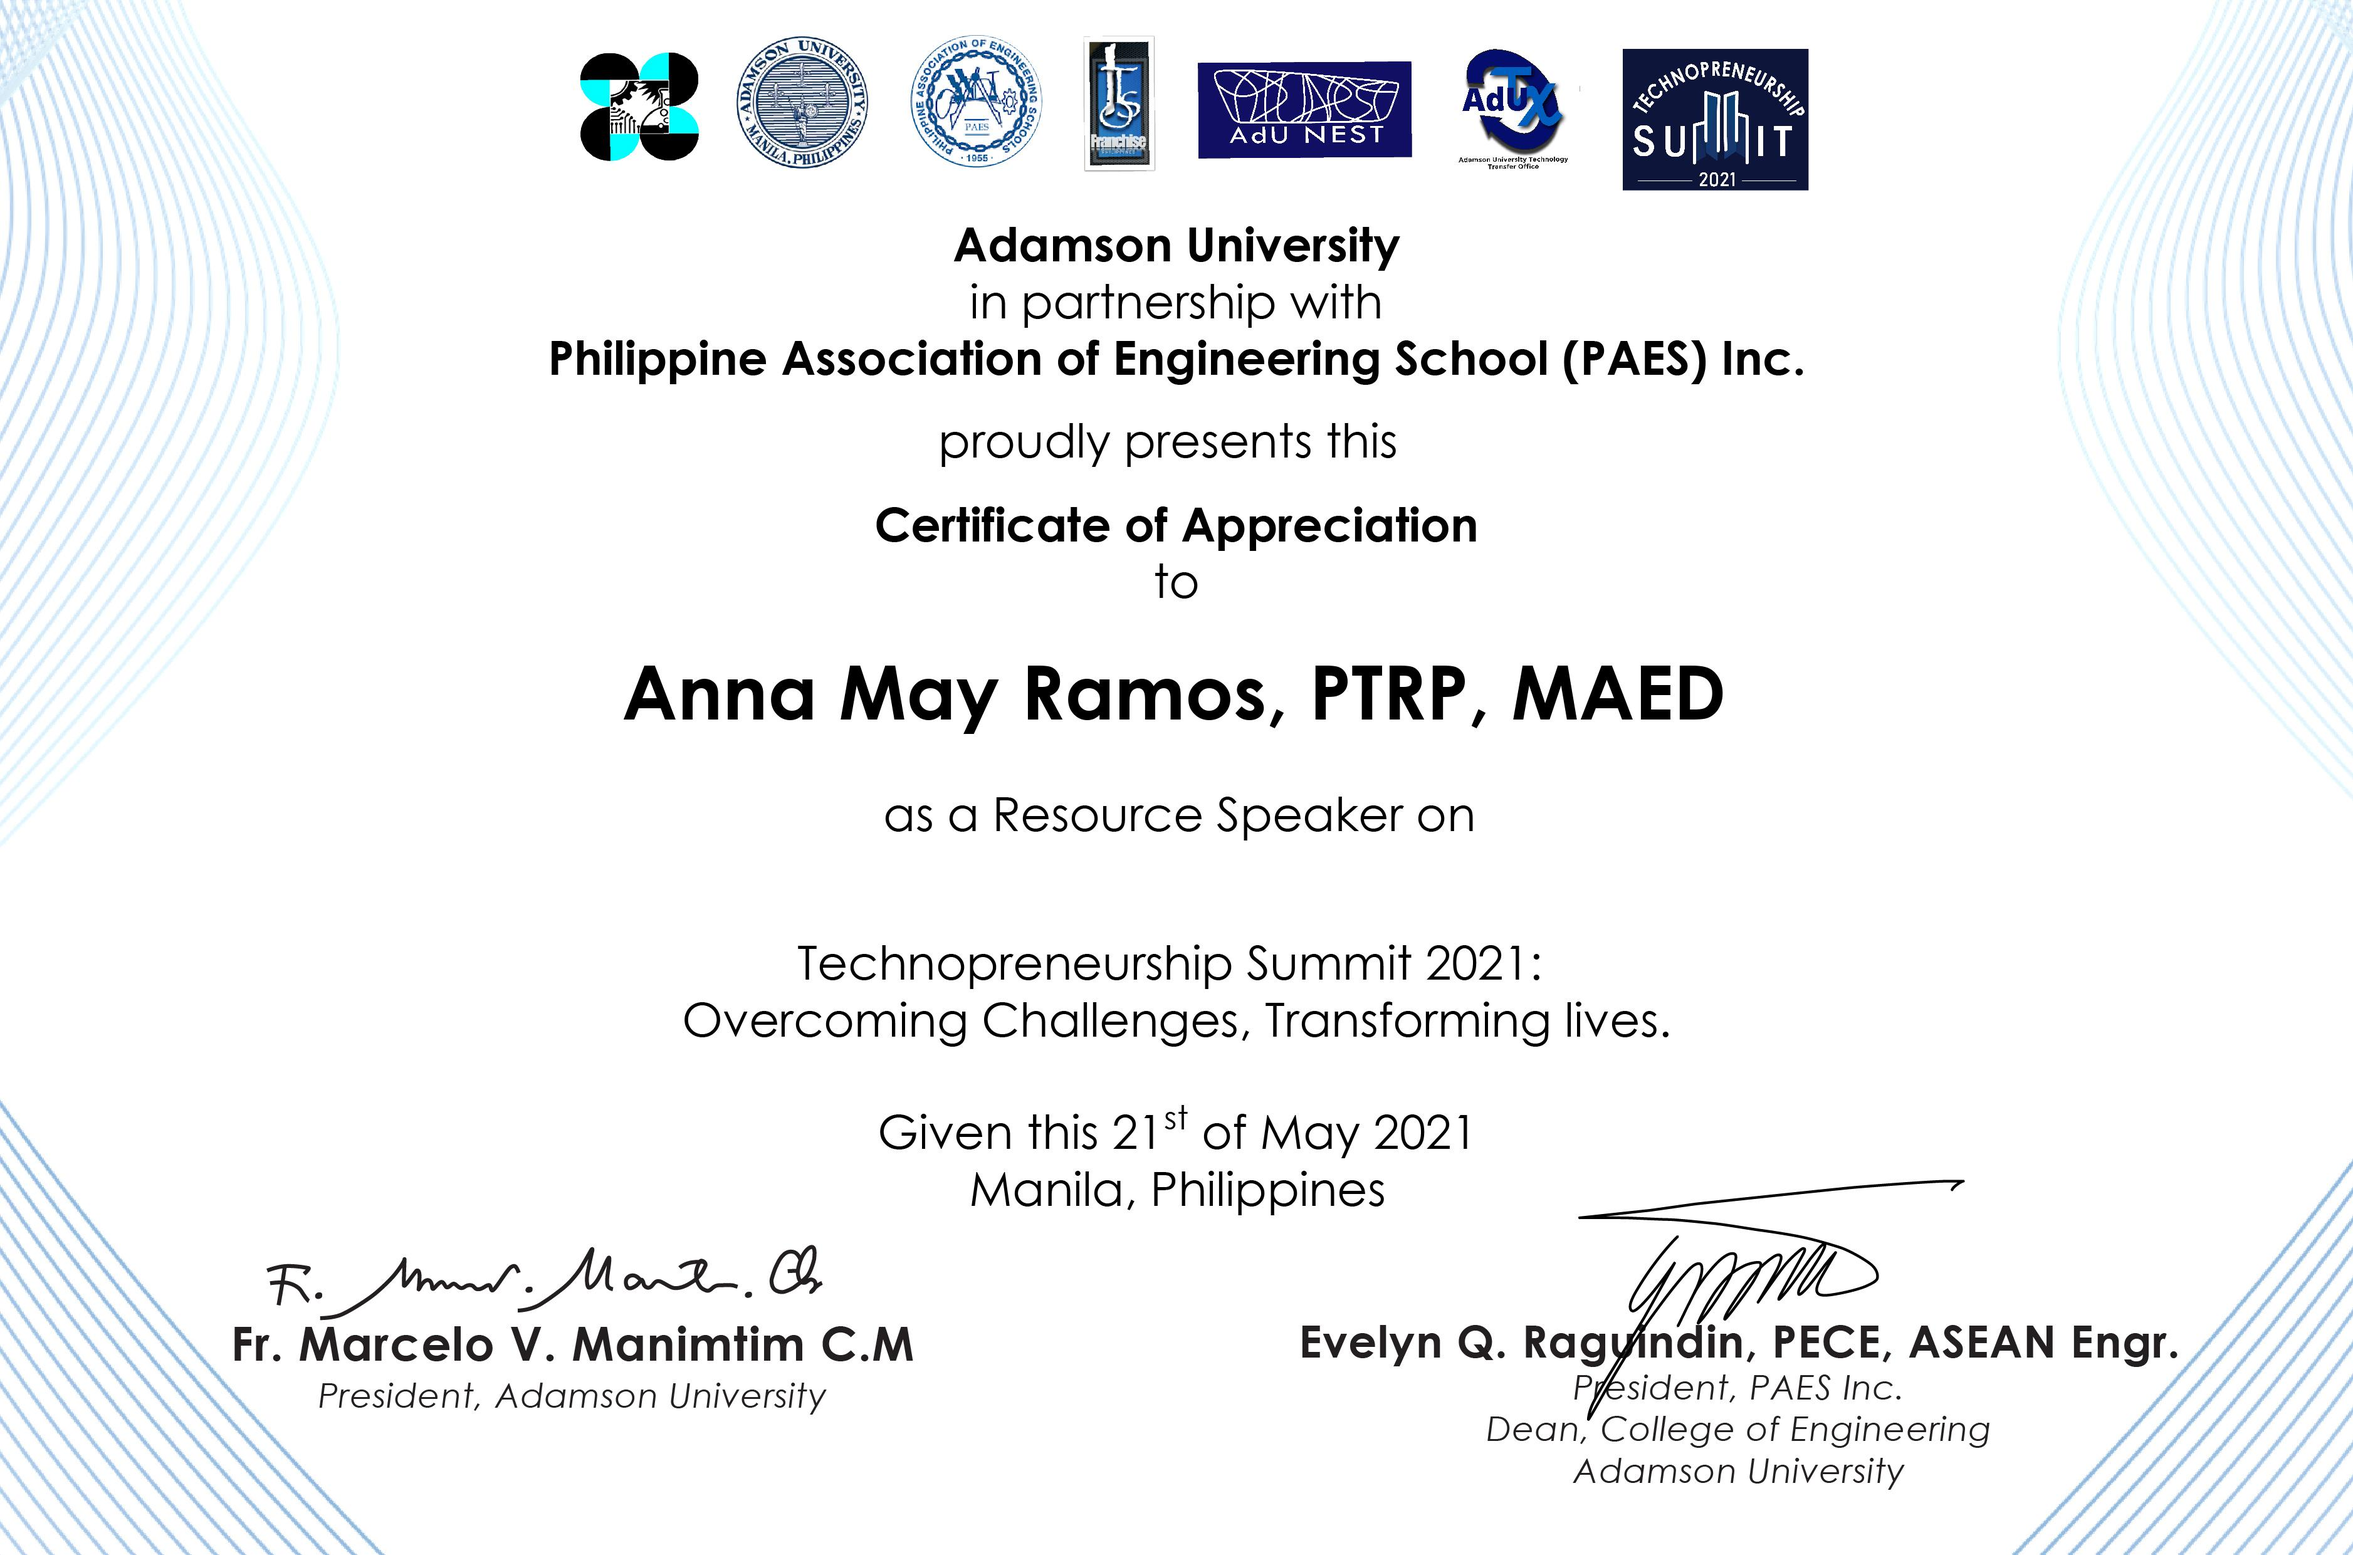
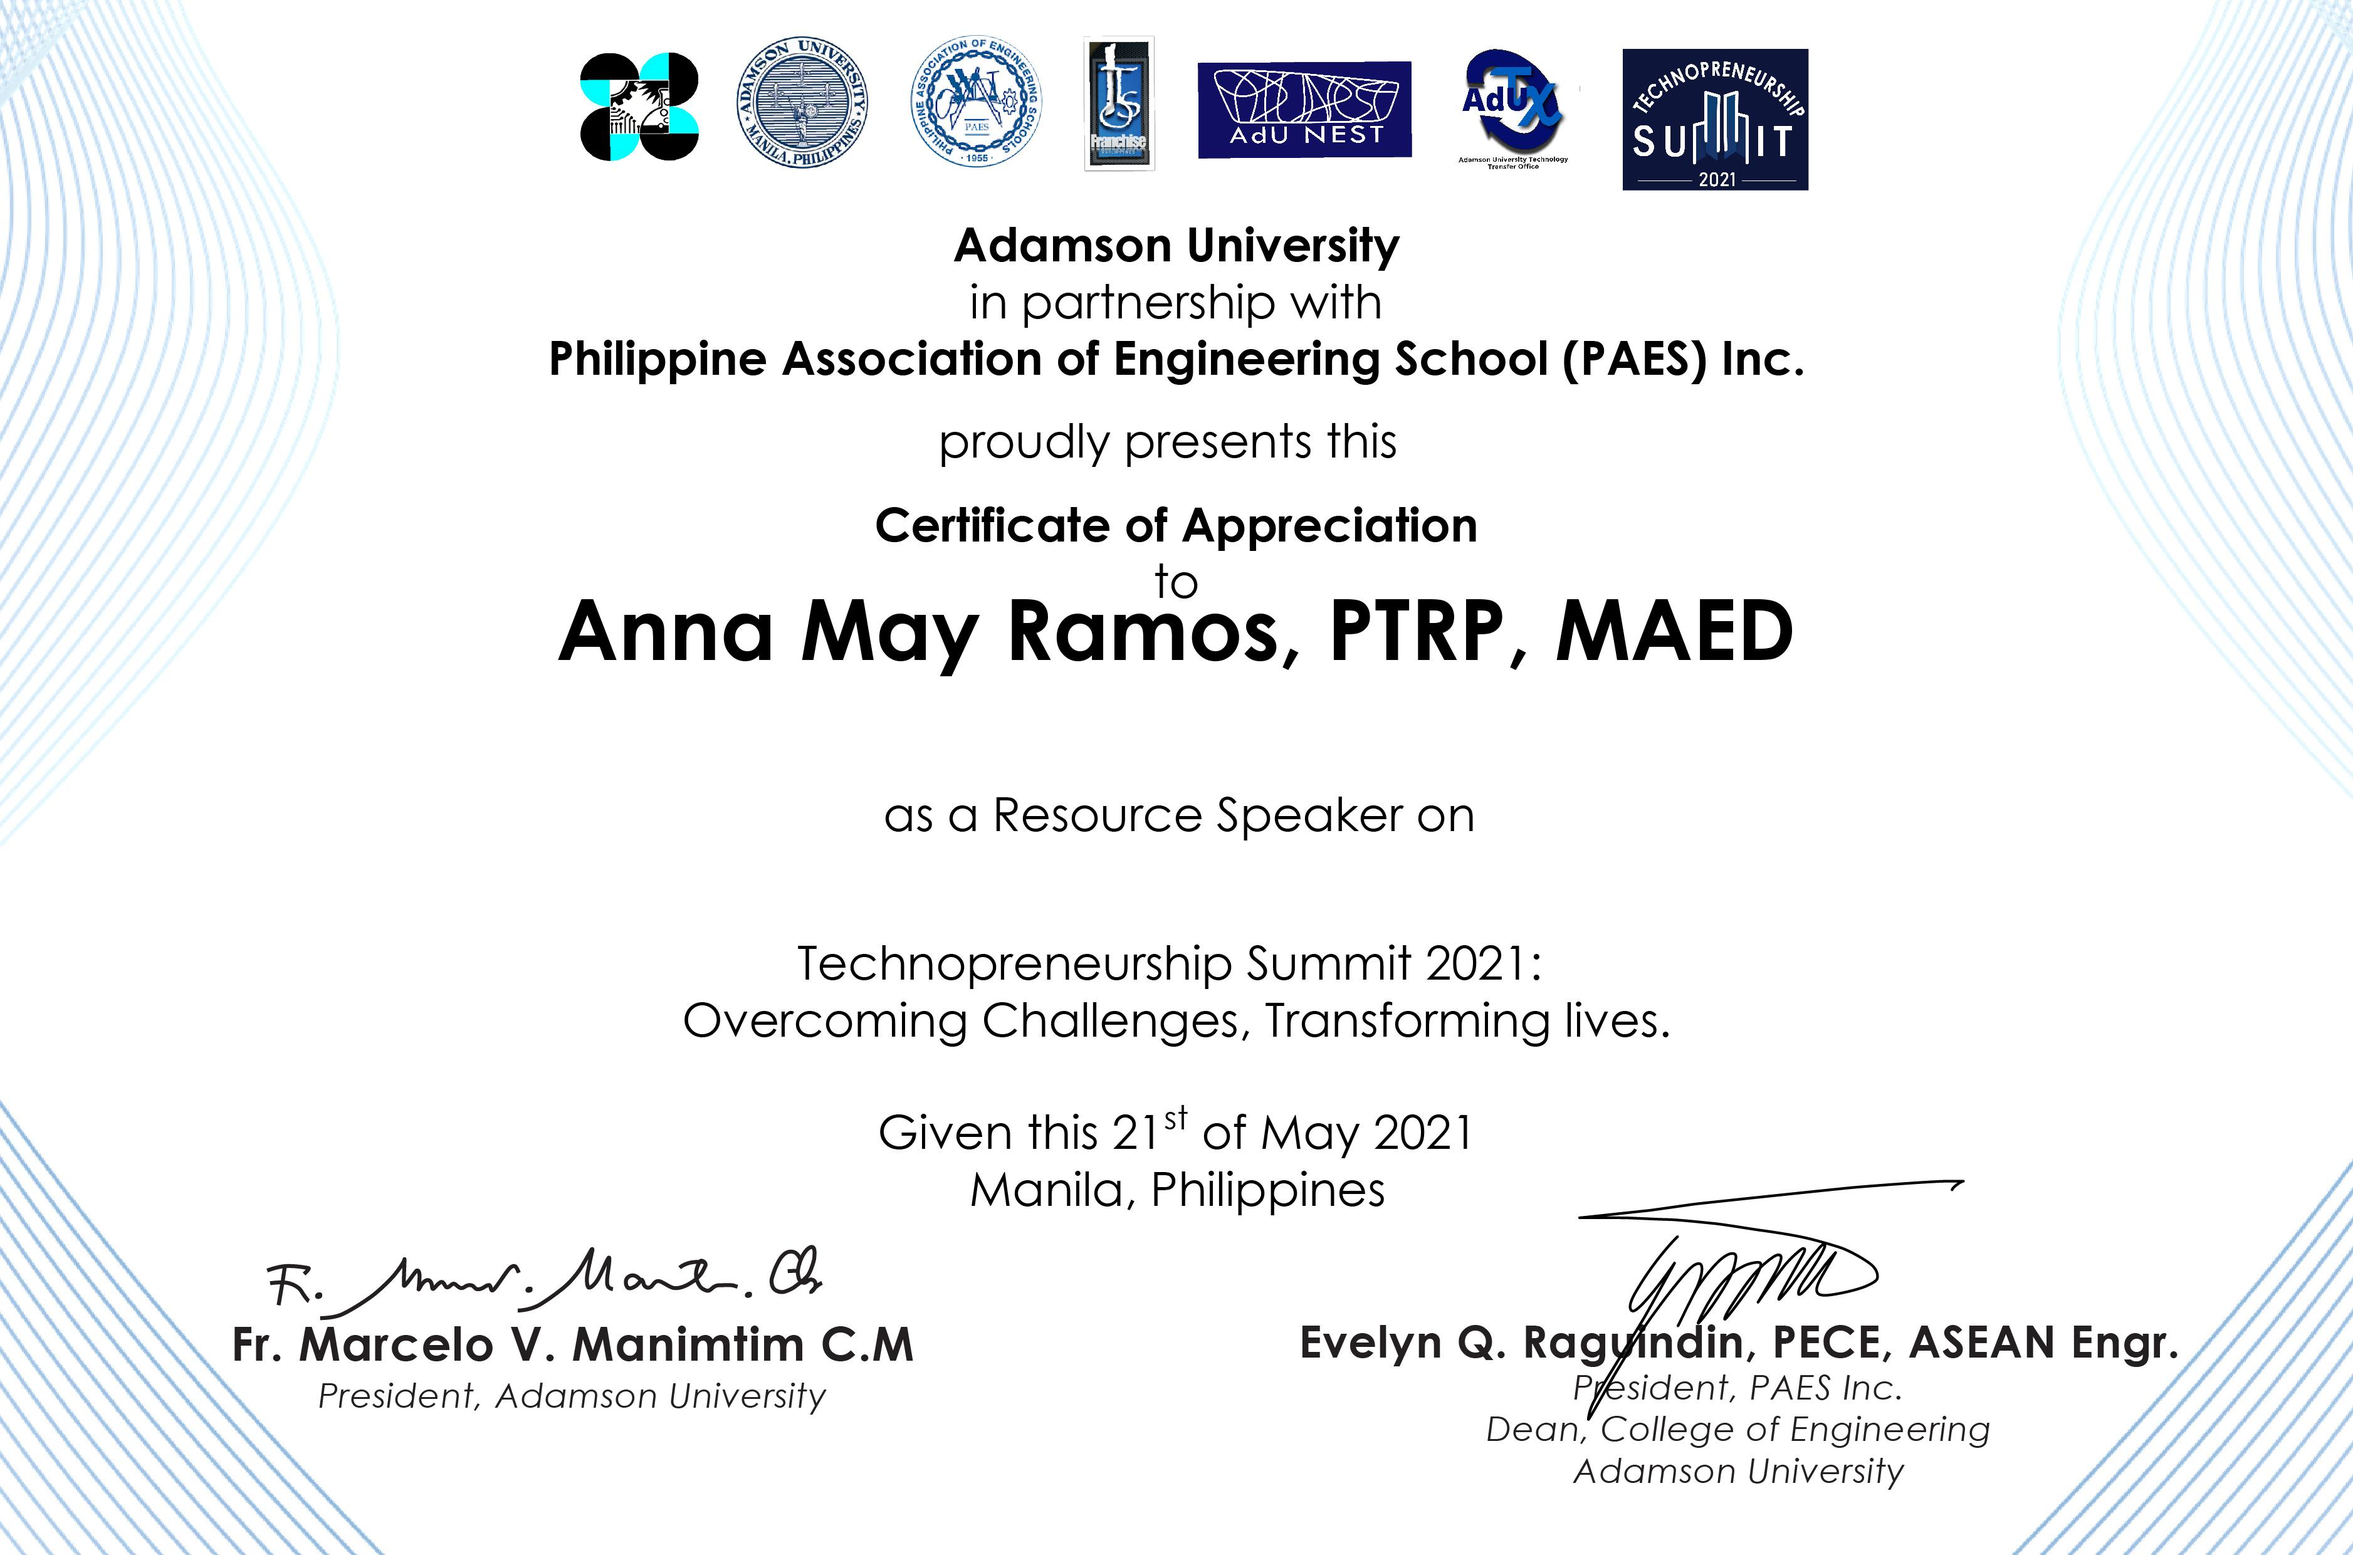
x and y can be modified now

Changed region(s): [[0.2182, 0.3724, 0.7792, 0.4655]]

diff --git a/Certificate GUI/Summer Project/certgen.py b/Certificate GUI/Summer Project/certgen.py
@@ -14,7 +14,7 @@ class Names():
         self.font_n = []
         self.font_s = []
 
-        self.pack_top = Frame(master, width=700, height=280)
+        self.pack_top = Frame(master, width=700, height=400 ,bg = 'white')
         self.pack_top.pack(side=TOP)
         
         self.pack_bottom = Frame(master, width=700, height=400) 
@@ -34,6 +34,7 @@ class Names():
 
         self.excelfile_entry =  Entry(master, width = 25, font = ('arial 12 '))
         self.excelfile_entry.place(x=380, y=75)
+
 
         #Button
 
@@ -100,9 +101,9 @@ class Names():
         else: invalid_char_input.clear()
         
         try:
-            with open("{}.jpg".format(speaker_fn), 'r') as file:
-                self.t_n.append(speaker_fn) #Appending to list
-                self.show_font_style_button()
+            image =Image.open("{}.jpg".format(speaker_fn))
+            self.t_n.append(speaker_fn) #Appending to list
+            self.show_font_style_button()
                         
         except IOError as e:
             tkinter.messagebox.showinfo('Error',e)
@@ -139,7 +140,7 @@ class Names():
         else: invalid_char_input.clear()
         
         try:
-            with open("{}.ttf".format(f_style_fn), 'r') as file:
+            with open("{}.ttf".format(f_style_fn)):
                 self.font_n.append(f_style_fn) #Appending to list
                 self.show_font_size_button()
                         
@@ -166,7 +167,7 @@ class Names():
         try:
             int(font_s)
             self.font_s.append(int(font_s)*.75)
-            self.show_directory_button()
+            self.show_imgsize_button()
             
             
         except ValueError:
@@ -176,6 +177,30 @@ class Names():
         
         
         #print(self.font_s)
+    def show_imgsize_button(self):
+
+        speaker_fn = self.t_n[-1]
+        
+        self.img_s= Label(self.pack_top, text = "X & Y for placement of names:", font = ('arial 12 bold'))
+        self.img_s.place(x=25, y=255)
+        self.img_sz_note= Label(self.pack_top, text = "*The default is at center of image", font = ('arial 9 italic'))
+        self.img_sz_note.place(x=25, y=275)
+
+        img = Image.open("{}.jpg".format(speaker_fn))
+        lxw = img.size
+        length= lxw[0] // 2
+        width = lxw[1] //2
+        
+        self.X_val_entry =  Entry(self.pack_top, width = 6, font = ('arial 12'))
+        self.X_val_entry.place(x=300, y=255)
+        self.X_val_entry.insert(0, "{}".format(length))
+
+        self.Y_val_entry =  Entry(self.pack_top, width = 6, font = ('arial 12'))
+        self.Y_val_entry.place(x=380, y=255)
+        self.Y_val_entry.insert(0, "{}".format(width))
+        
+        self.show_directory_button()
+        
         
  
 
@@ -185,29 +210,29 @@ class Names():
         #Text
 
         self.dir= Label(self.pack_top, text = "Output Directory:", font = ('arial 12 bold'))
-        self.dir.place(x=25, y=255)
+        self.dir.place(x=25, y=300)
 
         #Button
 
         self.speci_file_button = Button(self.pack_top, text = "Specify", width = 10, height = 1, bg = 'green', fg='white', command = self.specify_dir)
-        self.speci_file_button.place(x=250, y=255)
+        self.speci_file_button.place(x=250, y=300)
 
         self.gen_file_button = Button(self.pack_top, text = "Generate", width = 10, height = 1, bg = 'green', fg='white', command = self.gen_directory)
-        self.gen_file_button.place(x=400, y=255)
+        self.gen_file_button.place(x=400, y=300)
 
     def specify_dir(self):
 
         #Text
 
         self.dir= Label(self.pack_top, text = "Input the directory path:", font = ('arial 12 bold'))
-        self.dir.place(x=25, y=300)
+        self.dir.place(x=25, y=345)
 
         #Text box
-        self.dir_path_entry =  Entry(self.pack_top, width = 25, font = ('arial 12 '))
-        self.dir_path_entry.place(x=250, y=300)
+        self.dir_path_entry =  Entry(self.pack_top, width = 25, font = ('arial 12'))
+        self.dir_path_entry.place(x=250, y=345)
 
         self.speci_enter_button = Button(self.pack_top, text = "Enter", width = 10, height = 1, bg = 'green', fg='white', command = self.s_directory)
-        self.speci_enter_button.place(x=500, y=300)
+        self.speci_enter_button.place(x=500, y=345)
 
     def gen_directory(self):
         directory = os.getcwd()+'\Speakers'
@@ -247,19 +272,24 @@ class Names():
         df = pd.read_csv("{}.csv".format(file_name))
         for index, row in df.iterrows():
             img = Image.open("{}.jpg".format(speaker_fn))
+            l = self.X_val_entry.get()
+            w = self.Y_val_entry.get()
+            X_img = int(l)
+            Y_img = int(w)
+            
             draw = ImageDraw.Draw(img)
             name = row['Name']
     
                 
             if len(name) > 30: # IF THE NAME HAS MORE THAN 30 CHARACTERS THEN USE 140pt FONT SIZE
-                draw.text(xy=(1873, 1101), text='{}'.format(row['Name']), fill=(0, 0, 0),
+                draw.text(xy=(X_img, Y_img), text='{}'.format(row['Name']), fill=(0, 0, 0),
                             font=ImageFont.truetype("{}.ttf".format(font_style), font_size), anchor='mm')
 
                     #"{}.jpg".format(speaker_fn)
 
                         
             else: # IF THE NAME HAS LESS THAN 30 CHARACTERS THEN USE 160pt FONT SIZE
-                draw.text(xy=(1873, 1101), text='{}'.format(row['Name']), fill=(0, 0, 0),
+                draw.text(xy=(X_img, Y_img), text='{}'.format(row['Name']), fill=(0, 0, 0),
                             font=ImageFont.truetype("{}.ttf".format(font_style), font_size), anchor='mm')
         
             if not os.path.exists(directory):
